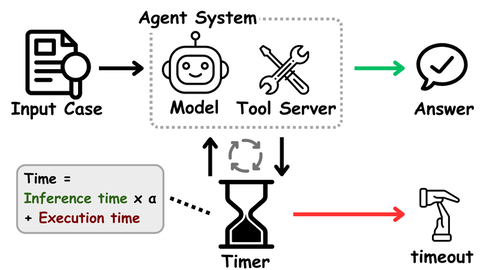
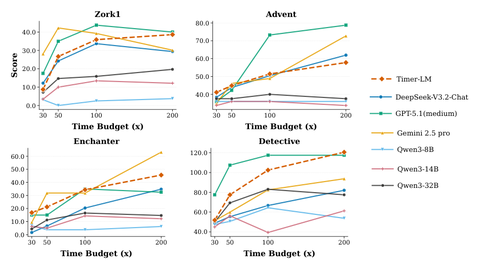
Show Timely-RL's text-game results instead of its pipeline diagram

diff --git a/solutions/timely-rl.md b/solutions/timely-rl.md
@@ -4,7 +4,7 @@ Timely-RL trains an 8B LLM with a timer tool using SFT and GRPO, with zero rewar
 
 ![Timely-RL](../assets/gifs/timely-rl.png)
 
-*A diagram from the paper: a timer adds up scaled inference time and tool execution time while the model works, and the episode either returns an answer or times out. Source: [Figure 1 from Ma et al., "Timely-RL" (arXiv 2601.16486)](https://arxiv.org/abs/2601.16486).*
+*A figure from the paper: score against time budget on four Jericho text-adventure games (Zork1, Advent, Enchanter, Detective), with the paper's model (Timer-LM, dashed orange) against DeepSeek-V3.2, GPT-5.1, Gemini 2.5 Pro and Qwen3 models. Panels rearranged into a 2x2 grid. Source: [Figure 4(b) from Ma et al., "Timely-RL" (arXiv 2601.16486)](https://arxiv.org/abs/2601.16486).*
 
 | | |
 |---|---|
